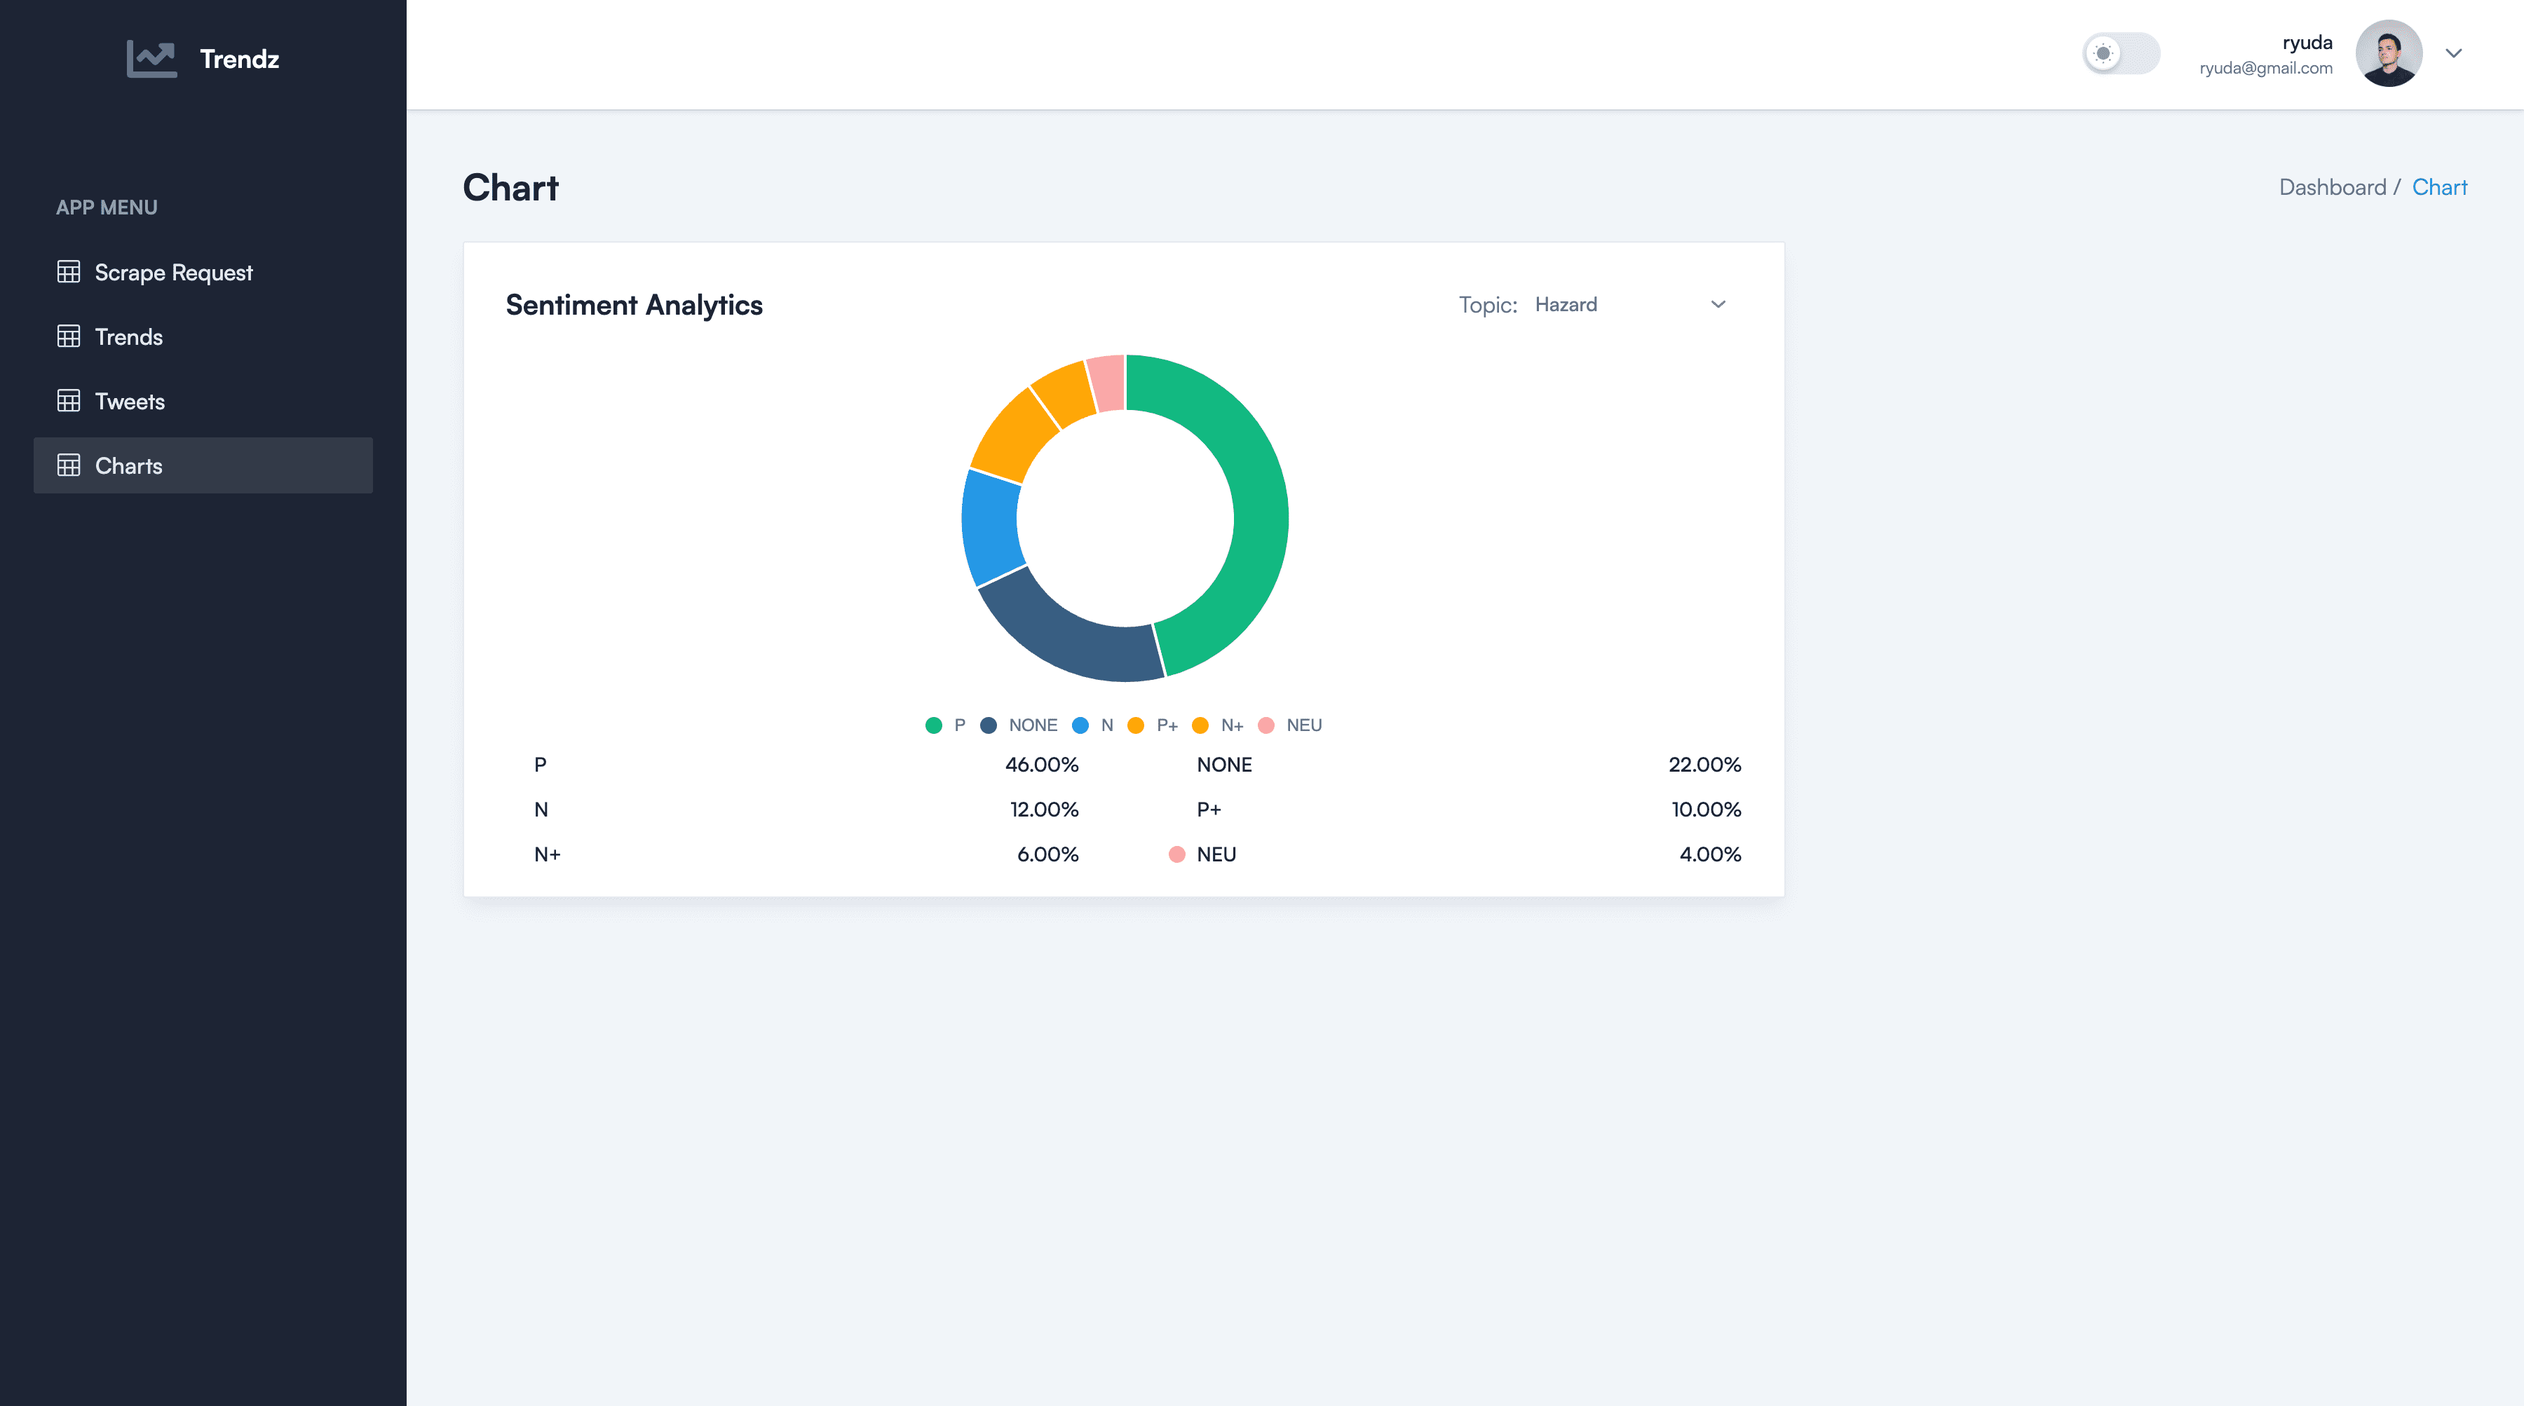
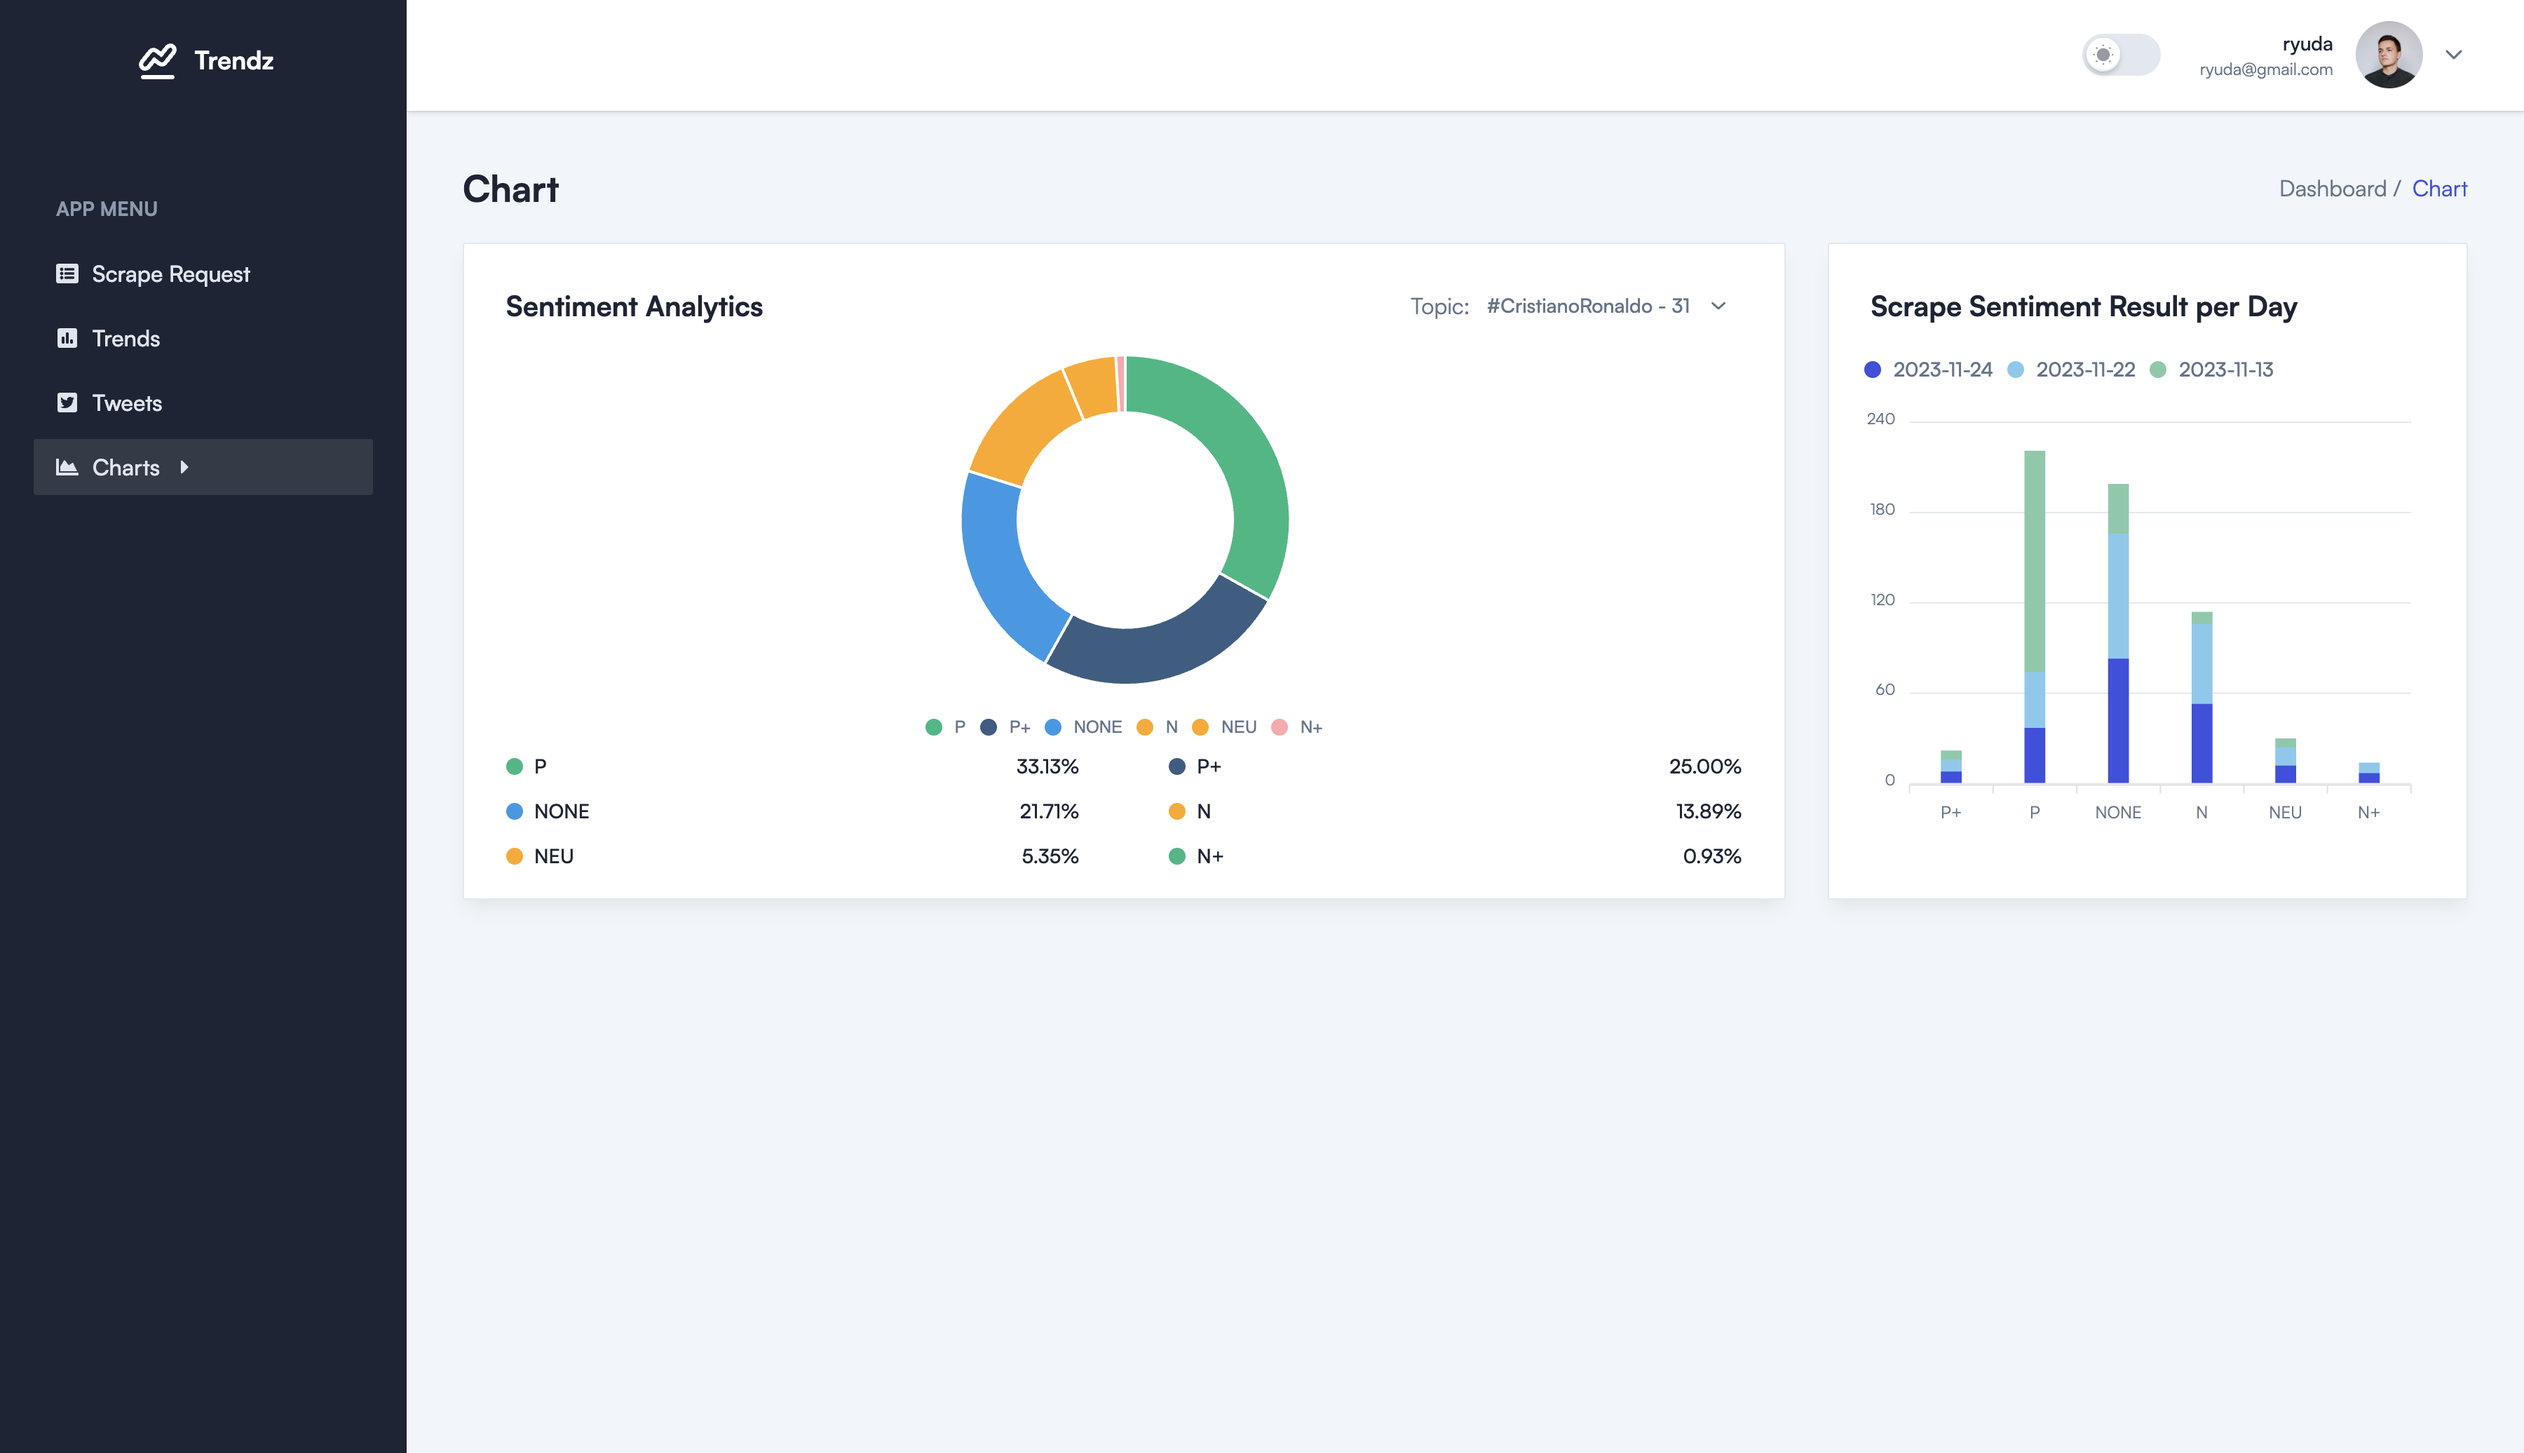
chore: update docs

diff --git a/README.md b/README.md
@@ -15,10 +15,10 @@
 - [Package Used](#package-used)
 
 ## **Preview**
-![list](public/images/preview-page-login.png)
-![list](public/images/preview-page-charts.png)
-![list](public/images/preview-page-scrape-requests.png)
-
+![preview-page-login](public/images/preview-page-login.png "preview-page-login") 
+![preview-page-dashboard](public/images/preview-page-dashboard.png "preview-page-dashboard") 
+![preview-page-scrape-requests](public/images/preview-page-scrape-requests.png "preview-page-scrape-requests")
+![preview-page-charts](public/images/preview-page-charts.png "preview-page-charts") 
 
 ## **How To Run Dev**
 - Run : <code>npm install</code>
